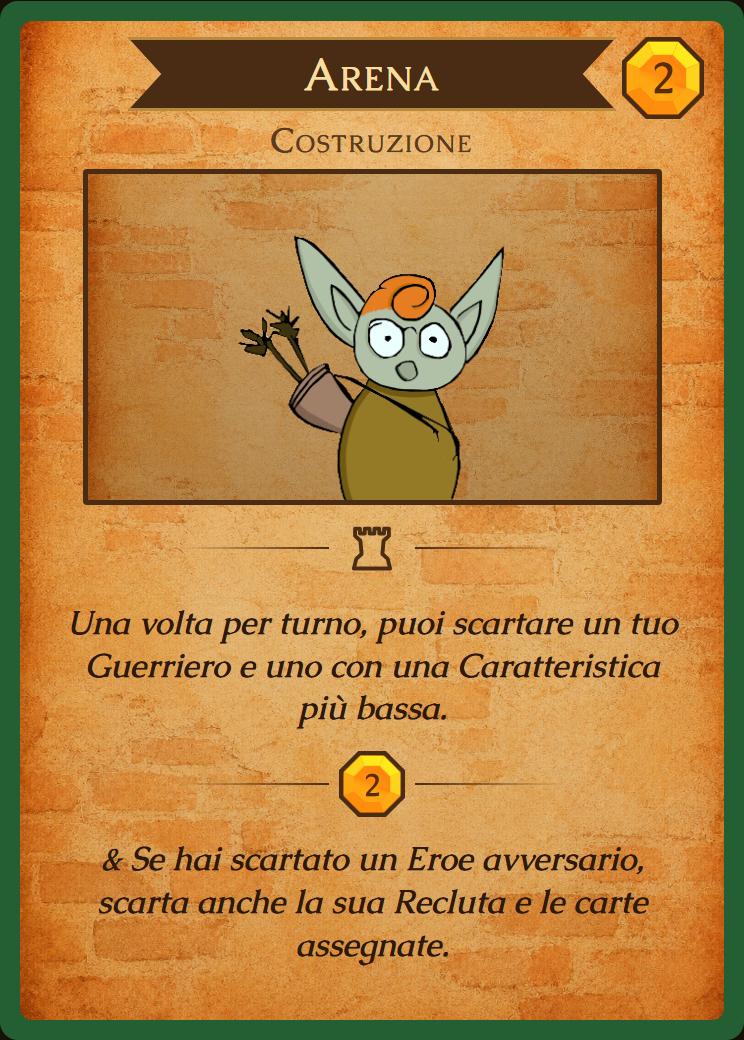
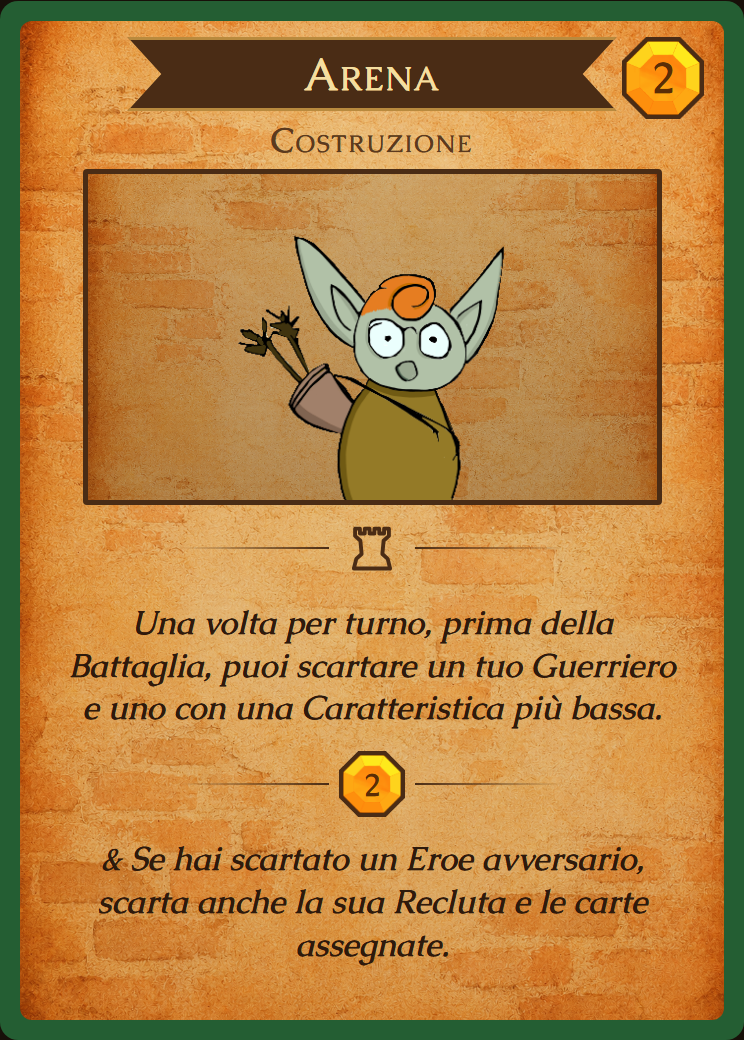
Updated arena effect

Changed region(s): [[0.0927, 0.5846, 0.9274, 0.7077]]

diff --git a/frontend/app.js b/frontend/app.js
@@ -1254,6 +1254,8 @@ const App = (() => {
 
   function _canActivateArena(buildingInstanceId) {
     if (!currentState || currentState.current_player_id !== myPlayerId) return false;
+    // Solo prima della Battaglia (fasi Azioni e Schieramento)
+    if (!['action', 'schieramento'].includes(currentState.phase)) return false;
     const player = currentState.players.find(p => p.id === myPlayerId);
     if (!player) return false;
     const building = player.field.village.buildings.find(b => b.instance_id === buildingInstanceId);

diff --git a/frontend/mobile/app.js b/frontend/mobile/app.js
@@ -2083,6 +2083,8 @@ const Mob = (() => {
   function canActivateArena(buildingIid) {
     const my = me();
     if (!my || !isMyTurn()) return false;
+    // Solo prima della Battaglia (fasi Azioni e Schieramento)
+    if (!['action', 'schieramento'].includes(currentState.phase)) return false;
     const b = (my.field.village.buildings || []).find(x => x.instance_id === buildingIid);
     if (!b || b.arena_available === false) return false;
     const mine = getAllWarriors(my);

diff --git a/engine/game.py b/engine/game.py
@@ -26,7 +26,7 @@ from engine.models import (
 from engine.cards import CARD_REGISTRY, get_card, WarriorCard, SpellCard, BuildingCard
 from engine.deck import build_deck, draw_cards, get_base_card_id
 from engine.effects import apply_effect
-from engine.battle import resolve_battle, get_valid_attack_targets
+from engine.battle import resolve_battle, get_valid_attack_targets, battle_building_bonus
 from engine.actions import (
     ActionError,
     play_warrior,
@@ -672,6 +672,9 @@ def public_state(state: GameState, viewer_player_id: Optional[str] = None) -> di
     """
     players_view = []
     for p in state.players:
+        # In fase di Battaglia i Guerrieri mostrano già il bonus delle Costruzioni
+        # (Ariete, Catapulta, Saracinesca), come nel calcolo del Danno.
+        bb = battle_building_bonus(p) if state.phase == "battaglia" else None
         p_view = {
             "id": p.id,
             "name": p.name,
@@ -695,14 +698,14 @@ def public_state(state: GameState, viewer_player_id: Optional[str] = None) -> di
             "hand_count": len(p.hand),
             "hand": p.hand if p.id == viewer_player_id else None,
             "field": {
-                "vanguard": [_warrior_view(w, p, viewer_player_id) for w in p.field.vanguard],
+                "vanguard": [_warrior_view(w, p, viewer_player_id, bb) for w in p.field.vanguard],
                 "bastion_left": {
                     "wall_count": len(p.field.bastion_left.walls),
                     "walls": (
                         [w.instance_id for w in p.field.bastion_left.walls]
                         if p.id == viewer_player_id else None
                     ),
-                    "warriors": [_warrior_view(w, p, viewer_player_id) for w in p.field.bastion_left.warriors],
+                    "warriors": [_warrior_view(w, p, viewer_player_id, bb) for w in p.field.bastion_left.warriors],
                 },
                 "bastion_right": {
                     "wall_count": len(p.field.bastion_right.walls),
@@ -710,7 +713,7 @@ def public_state(state: GameState, viewer_player_id: Optional[str] = None) -> di
                         [w.instance_id for w in p.field.bastion_right.walls]
                         if p.id == viewer_player_id else None
                     ),
-                    "warriors": [_warrior_view(w, p, viewer_player_id) for w in p.field.bastion_right.warriors],
+                    "warriors": [_warrior_view(w, p, viewer_player_id, bb) for w in p.field.bastion_right.warriors],
                 },
                 "village": {
                     "buildings": [_building_view(b, p if p.id == viewer_player_id else None) for b in p.field.village.buildings],
@@ -837,15 +840,21 @@ def _available_hordes(player: Player) -> list:
     return result
 
 
-def _warrior_view(w: WarriorInstance, player: Optional[Player] = None, viewer_player_id: Optional[str] = None) -> dict:
+def _warrior_view(
+    w: WarriorInstance,
+    player: Optional[Player] = None,
+    viewer_player_id: Optional[str] = None,
+    battle_bonus: Optional[Dict[str, int]] = None,
+) -> dict:
     card = get_card(w.base_card_id)
+    bb = battle_bonus or {}
     return {
         "instance_id": w.instance_id,
         "base_card_id": w.base_card_id,
         "name": card.name if isinstance(card, WarriorCard) else w.base_card_id,
-        "att": w.effective_att(),
-        "git": w.effective_git(),
-        "dif": w.effective_dif(),
+        "att": w.effective_att() + bb.get("att", 0),
+        "git": w.effective_git() + bb.get("git", 0),
+        "dif": w.effective_dif() + bb.get("dif", 0),
         "species": card.species if isinstance(card, WarriorCard) else None,
         "subtype": card.subtype if isinstance(card, WarriorCard) else None,
         "horde_active": w.horde_active,

diff --git a/engine/battle.py b/engine/battle.py
@@ -15,7 +15,7 @@ Fossato (REGOLE CORRETTE):
 
 from __future__ import annotations
 import random
-from typing import List, Optional, Tuple
+from typing import Dict, List, Optional, Tuple
 
 from engine.models import (
     Bastion,
@@ -23,7 +23,6 @@ from engine.models import (
     Player,
     WarriorInstance,
 )
-from engine.cards import get_card, BuildingCard
 
 
 class ActionError(Exception):
@@ -167,6 +166,23 @@ def _effective_dif(w: WarriorInstance) -> int:
     return w.effective_dif()
 
 
+_BATTLE_BUILDING_STAT = {"ariete": "att", "catapulta": "git", "saracinesca": "dif"}
+
+
+def battle_building_bonus(player: Player) -> Dict[str, int]:
+    """
+    Bonus che le Costruzioni del giocatore danno a ciascuno dei suoi Guerrieri
+    in Battaglia: Ariete (+ATT), Catapulta (+GIT), Saracinesca (+DIF); +1 base,
+    +2 completa. Non entra in effective_*(): vale solo durante la Battaglia.
+    """
+    bonus = {"att": 0, "git": 0, "dif": 0}
+    for b_inst in player.field.village.buildings:
+        stat = _BATTLE_BUILDING_STAT.get(b_inst.base_card_id)
+        if stat:
+            bonus[stat] += 2 if b_inst.completed else 1
+    return bonus
+
+
 def attacker_stats(attacker: Player) -> Tuple[int, int]:
     """
     Ritorna (max_ATT, max_GIT) tra tutti i Guerrieri in Avanscoperta,
@@ -178,21 +194,10 @@ def attacker_stats(attacker: Player) -> Tuple[int, int]:
     if not warriors:
         return max_att, max_git
 
-    # Bonus da costruzioni: Ariete (+ATT), Catapulta (+GIT). Valgono per ogni
-    # Guerriero in Battaglia, quindi si sommano una volta al massimo; senza
-    # Guerrieri non c'è nessuno a cui darli.
-    att_bonus = 0
-    git_bonus = 0
-    for b_inst in attacker.field.village.buildings:
-        card = get_card(b_inst.base_card_id)
-        if not isinstance(card, BuildingCard):
-            continue
-        if b_inst.base_card_id == "ariete":
-            att_bonus += 2 if b_inst.completed else 1
-        elif b_inst.base_card_id == "catapulta":
-            git_bonus += 2 if b_inst.completed else 1
-
-    return max_att + att_bonus, max_git + git_bonus
+    # Il bonus vale per ogni Guerriero, quindi si somma una volta al massimo;
+    # senza Guerrieri non c'è nessuno a cui darlo.
+    bonus = battle_building_bonus(attacker)
+    return max_att + bonus["att"], max_git + bonus["git"]
 
 
 def defender_stats(defender: Player, bastion_side: str) -> Tuple[int, int]:
@@ -212,20 +217,11 @@ def defender_stats(defender: Player, bastion_side: str) -> Tuple[int, int]:
     # Bonus temporaneo sul bastione (da Saracinesca, Equipotenza, ecc.)
     max_dif += bastion.dif_bonus
 
-    # Saracinesca (+DIF), Catapulta (+GIT): come in attacco valgono per ogni
-    # Guerriero in Battaglia, quindi un Bastione vuoto non ne beneficia.
+    # Come in attacco, un Bastione vuoto non beneficia del bonus.
     if not warriors:
         return max_dif, max_git
-    for b_inst in defender.field.village.buildings:
-        card = get_card(b_inst.base_card_id)
-        if not isinstance(card, BuildingCard):
-            continue
-        if b_inst.base_card_id == "saracinesca":
-            max_dif += 2 if b_inst.completed else 1
-        elif b_inst.base_card_id == "catapulta":
-            max_git += 2 if b_inst.completed else 1
-
-    return max_dif, max_git
+    bonus = battle_building_bonus(defender)
+    return max_dif + bonus["dif"], max_git + bonus["git"]
 
 
 # ---------------------------------------------------------------------------

diff --git a/engine/actions.py b/engine/actions.py
@@ -868,6 +868,8 @@ def arena_activate(
     Non consuma Azione. Usabile una sola volta per turno per Arena.
     """
     player = _require_current_player(state, player_id)
+    if state.phase not in ("action", "schieramento"):
+        raise ActionError("L'Arena si può usare solo prima della Battaglia.")
 
     arena = next(
         (b for b in player.field.village.buildings
